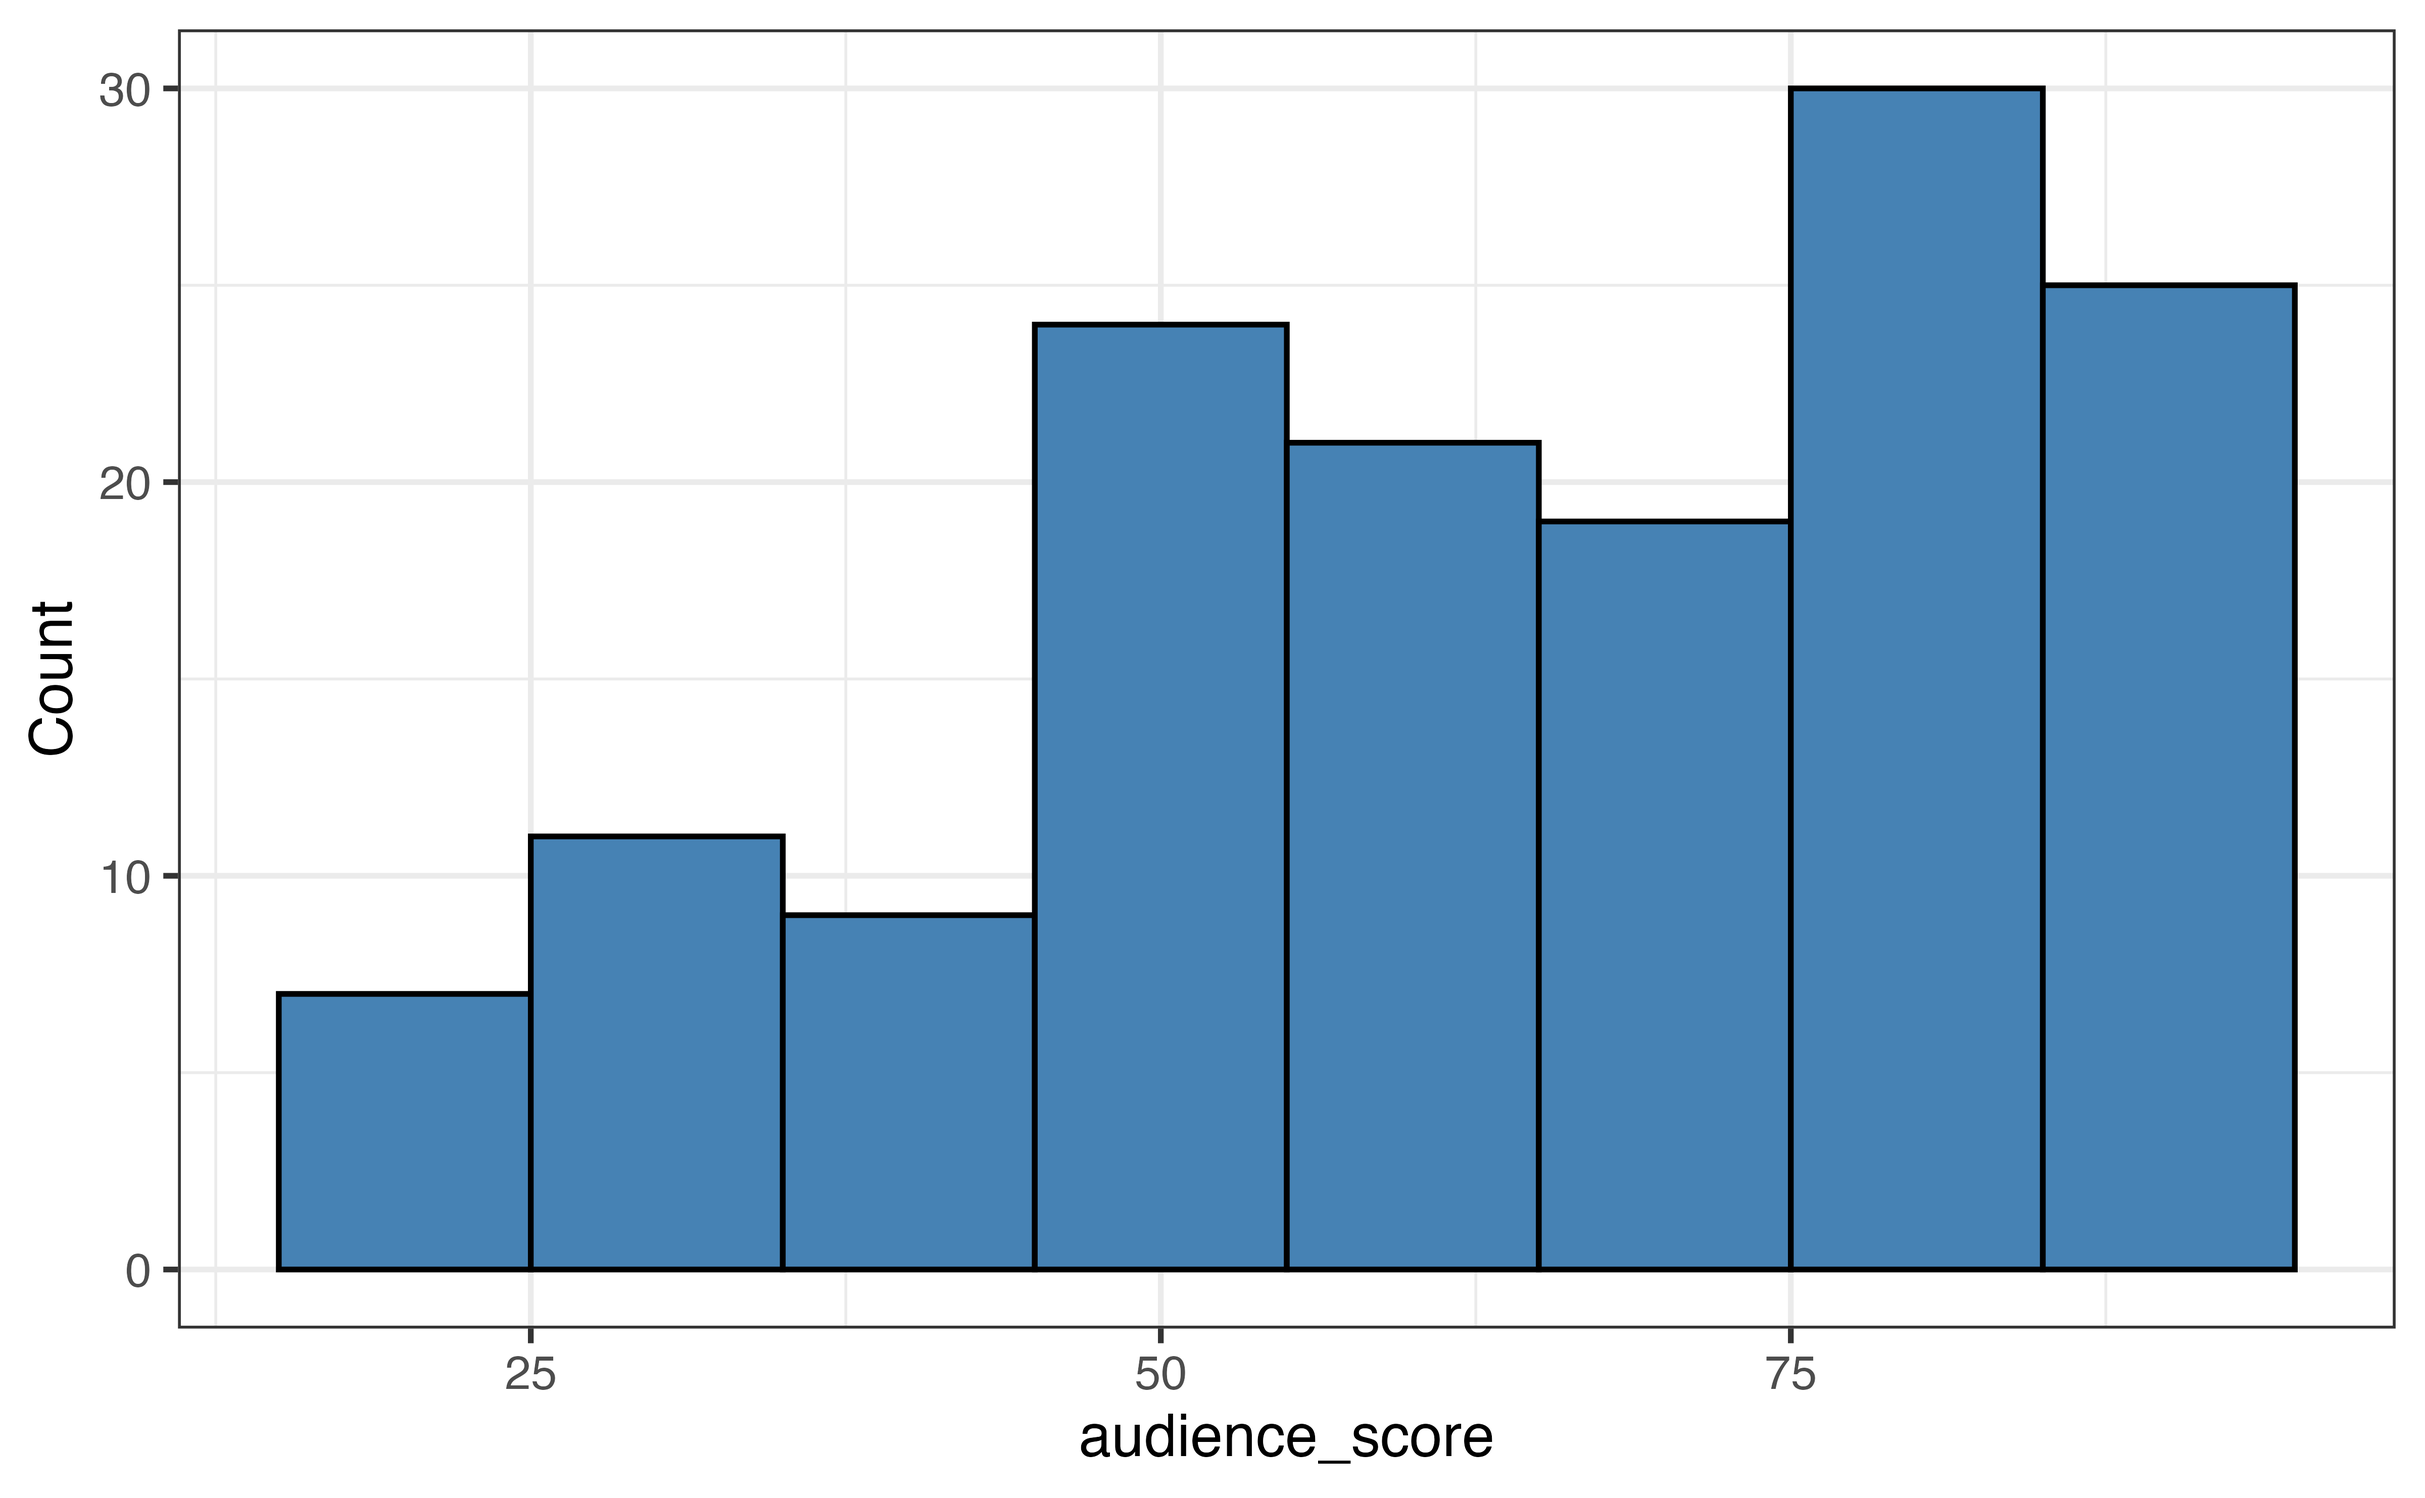
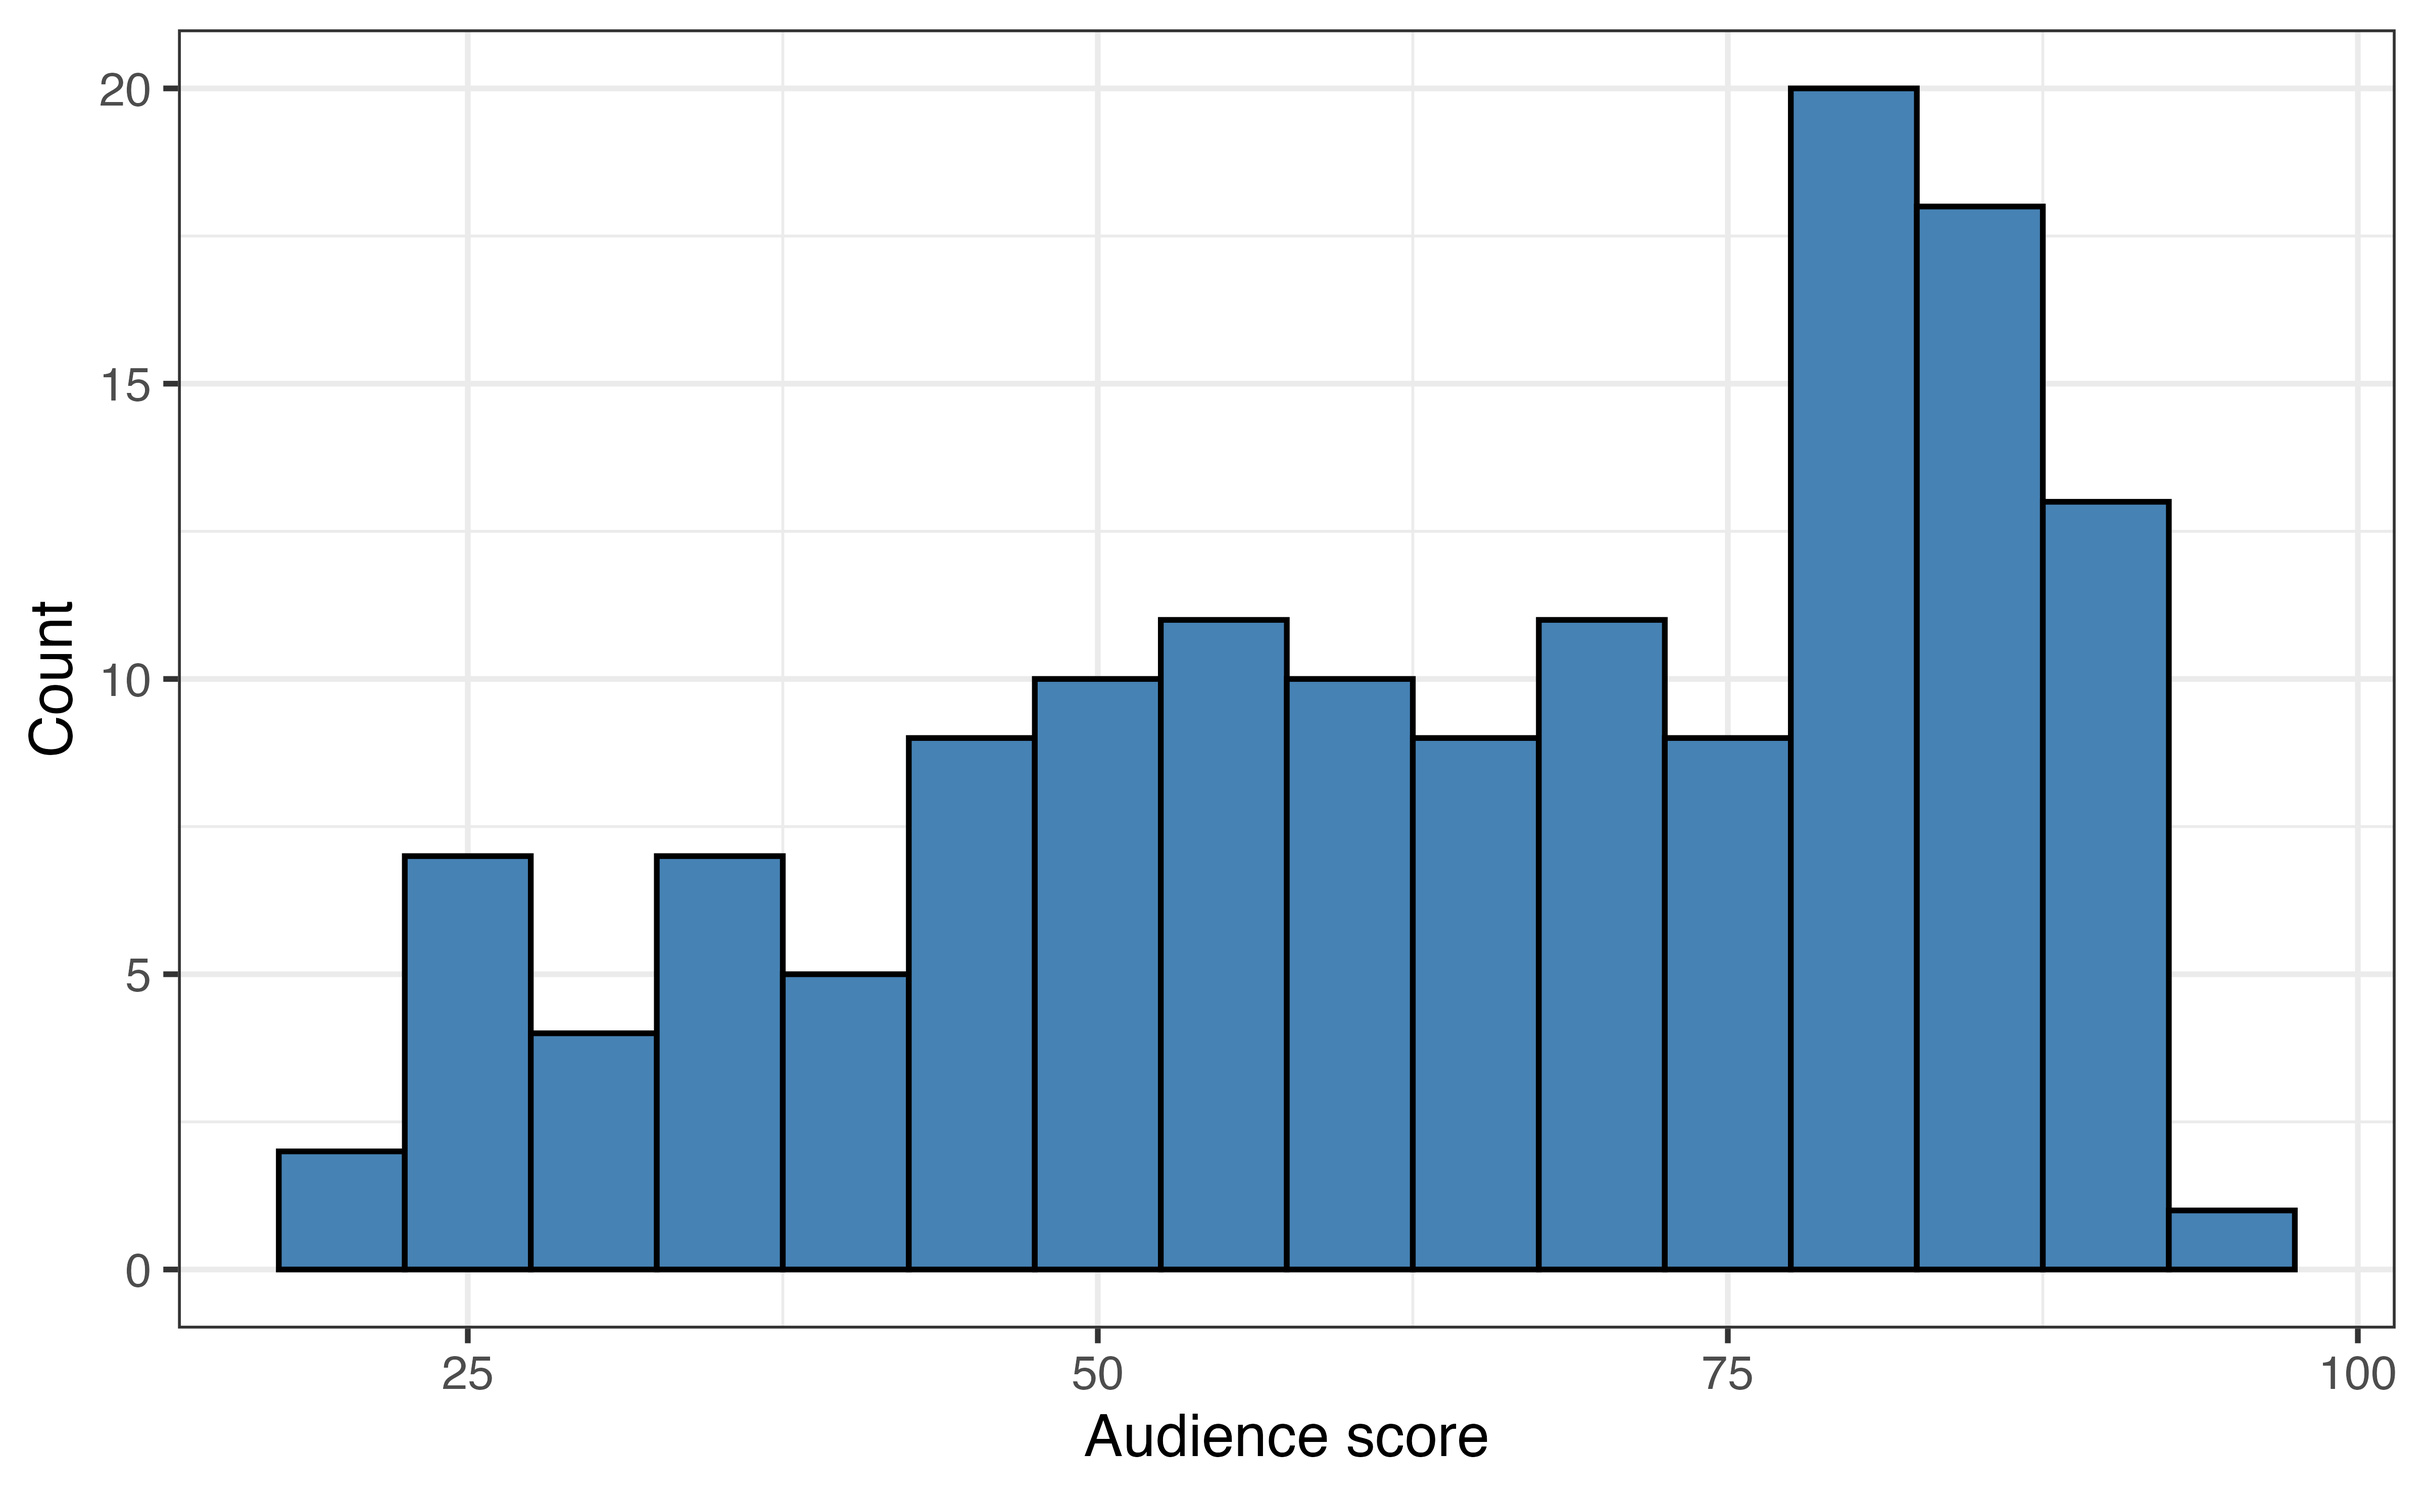
Chapter 4 captions done!

diff --git a/docs/04-slr.html b/docs/04-slr.html
@@ -474,16 +474,16 @@ window.Quarto = {
 <div class="cell-output-display">
 <div id="fig-movies-univariate-2" class="quarto-float quarto-figure quarto-figure-center anchored">
 <figure class="quarto-float quarto-subfloat-fig figure"><div aria-describedby="fig-movies-univariate-2-caption-0ceaefa1-69ba-4598-a22c-09a6ac19f8ca">
-<a href="04-slr_files/figure-html/fig-movies-univariate-2.png" class="lightbox" data-gallery="fig-movies-univariate" title="Figure&nbsp;4.1&nbsp;(b): Adience score"><img src="04-slr_files/figure-html/fig-movies-univariate-2.png" class="img-fluid figure-img" style="width:100.0%" data-ref-parent="fig-movies-univariate"></a>
+<a href="04-slr_files/figure-html/fig-movies-univariate-2.png" class="lightbox" data-gallery="fig-movies-univariate" title="Figure&nbsp;4.1&nbsp;(b): Audience score"><img src="04-slr_files/figure-html/fig-movies-univariate-2.png" class="img-fluid figure-img" style="width:100.0%" data-ref-parent="fig-movies-univariate"></a>
 </div>
 <figcaption class="quarto-float-caption-bottom quarto-subfloat-caption quarto-subfloat-fig" id="fig-movies-univariate-2-caption-0ceaefa1-69ba-4598-a22c-09a6ac19f8ca">
-(b) Adience score
+(b) Audience score
 </figcaption></figure>
 </div>
 </div>
 </div>
 <figcaption class="quarto-float-caption-bottom quarto-float-caption quarto-float-fig" id="fig-movies-univariate-caption-0ceaefa1-69ba-4598-a22c-09a6ac19f8ca">
-Figure&nbsp;4.1: Univariate distributions of <code>critics_score</code> and <code>audience_score</code>
+Figure&nbsp;4.1: Univariate distribution for the percentage of critics and the percentage of audience members who gave favorable reviews of the movie
 </figcaption></figure>
 </div>
 </div>
@@ -546,10 +546,10 @@ Table&nbsp;4.1: Summary statistics for <code>critics_score</code> and <code>audi
 <div class="cell-output-display">
 <div id="fig-movies-bivariate" class="quarto-float quarto-figure quarto-figure-center anchored">
 <figure class="quarto-float quarto-float-fig figure"><div aria-describedby="fig-movies-bivariate-caption-0ceaefa1-69ba-4598-a22c-09a6ac19f8ca">
-<a href="04-slr_files/figure-html/fig-movies-bivariate-1.png" class="lightbox" data-gallery="quarto-lightbox-gallery-3" title="Figure&nbsp;4.2: Scatterplot of critics_score and audience_score"><img src="04-slr_files/figure-html/fig-movies-bivariate-1.png" class="img-fluid figure-img" style="width:100.0%"></a>
+<a href="04-slr_files/figure-html/fig-movies-bivariate-1.png" class="lightbox" data-gallery="quarto-lightbox-gallery-3" title="Figure&nbsp;4.2: Scatterplot of the relationship between the percentage of critics and percentage of audience members who gave a favorable review for a movie"><img src="04-slr_files/figure-html/fig-movies-bivariate-1.png" class="img-fluid figure-img" style="width:100.0%"></a>
 </div>
 <figcaption class="quarto-float-caption-bottom quarto-float-caption quarto-float-fig" id="fig-movies-bivariate-caption-0ceaefa1-69ba-4598-a22c-09a6ac19f8ca">
-Figure&nbsp;4.2: Scatterplot of <code>critics_score</code> and <code>audience_score</code>
+Figure&nbsp;4.2: Scatterplot of the relationship between the percentage of critics and percentage of audience members who gave a favorable review for a movie
 </figcaption></figure>
 </div>
 </div>
@@ -643,10 +643,10 @@ Figure&nbsp;4.2: Scatterplot of <code>critics_score</code> and <code>audience_sc
 <div class="cell-output-display">
 <div id="fig-many-lines" class="quarto-float quarto-figure quarto-figure-center anchored">
 <figure class="quarto-float quarto-float-fig figure"><div aria-describedby="fig-many-lines-caption-0ceaefa1-69ba-4598-a22c-09a6ac19f8ca">
-<a href="04-slr_files/figure-html/fig-many-lines-1.png" class="lightbox" data-gallery="quarto-lightbox-gallery-4" title="Figure&nbsp;4.3: Potential regression lines for the relationship between critics_score and audience_score"><img src="04-slr_files/figure-html/fig-many-lines-1.png" class="img-fluid figure-img" style="width:100.0%"></a>
+<a href="04-slr_files/figure-html/fig-many-lines-1.png" class="lightbox" data-gallery="quarto-lightbox-gallery-4" title="Figure&nbsp;4.3: Possible regression lines for the relationship between the critics score and audience score"><img src="04-slr_files/figure-html/fig-many-lines-1.png" class="img-fluid figure-img" style="width:100.0%"></a>
 </div>
 <figcaption class="quarto-float-caption-bottom quarto-float-caption quarto-float-fig" id="fig-many-lines-caption-0ceaefa1-69ba-4598-a22c-09a6ac19f8ca">
-Figure&nbsp;4.3: Potential regression lines for the relationship between <code>critics_score</code> and <code>audience_score</code>
+Figure&nbsp;4.3: Possible regression lines for the relationship between the critics score and audience score
 </figcaption></figure>
 </div>
 </div>
@@ -656,10 +656,10 @@ Figure&nbsp;4.3: Potential regression lines for the relationship between <code>c
 <div class="cell-output-display">
 <div id="fig-scatterplot-resid" class="quarto-float quarto-figure quarto-figure-center anchored">
 <figure class="quarto-float quarto-float-fig figure"><div aria-describedby="fig-scatterplot-resid-caption-0ceaefa1-69ba-4598-a22c-09a6ac19f8ca">
-<a href="04-slr_files/figure-html/fig-scatterplot-resid-1.png" class="lightbox" data-gallery="quarto-lightbox-gallery-5" title="Figure&nbsp;4.4: Regression line of the relationship between critics_score and audience_score with residuals"><img src="04-slr_files/figure-html/fig-scatterplot-resid-1.png" class="img-fluid figure-img" style="width:100.0%"></a>
+<a href="04-slr_files/figure-html/fig-scatterplot-resid-1.png" class="lightbox" data-gallery="quarto-lightbox-gallery-5" title="Figure&nbsp;4.4: Regression line of the relationship between critics score and audience score with corresponding residuals"><img src="04-slr_files/figure-html/fig-scatterplot-resid-1.png" class="img-fluid figure-img" style="width:100.0%"></a>
 </div>
 <figcaption class="quarto-float-caption-bottom quarto-float-caption quarto-float-fig" id="fig-scatterplot-resid-caption-0ceaefa1-69ba-4598-a22c-09a6ac19f8ca">
-Figure&nbsp;4.4: Regression line of the relationship between <code>critics_score</code> and <code>audience_score</code> with residuals
+Figure&nbsp;4.4: Regression line of the relationship between critics score and audience score with corresponding residuals
 </figcaption></figure>
 </div>
 </div>
@@ -743,13 +743,13 @@ There is an area of statistics called <em>causal inference</em> about models tha
 \widehat{\text{audience\_scores}} &amp;= 32.316 + 0.519 \times 88 \\
 &amp;= \textbf{77.988} \\
 \end{aligned}\]</span></p>
-<p>From the snapshot of the Barbie Rotten Tomatoes page (<a href="#fig-barbie" class="quarto-xref">Figure&nbsp;<span>4.5</span></a>), we see the actual audience score is 83<a href="#fn8" class="footnote-ref" id="fnref8" role="doc-noteref"><sup>8</sup></a>. Therefore, the model under predicted the audience score by about 5 points (83 - 77.988). Perhaps this isn’t surprising given this film’s massive box office success! <!--# do i need a citation for this statement?--></p>
+<p>From the snapshot of the <em>Barbie</em> Rotten Tomatoes page (<a href="#fig-barbie" class="quarto-xref">Figure&nbsp;<span>4.5</span></a>), we see the actual audience score is 83<a href="#fn8" class="footnote-ref" id="fnref8" role="doc-noteref"><sup>8</sup></a>. Therefore, the model under predicted the audience score by about 5 points (83 - 77.988). Perhaps this isn’t surprising given this film’s massive box office success! <!--# do i need a citation for this statement?--></p>
 <div id="fig-barbie" class="quarto-float quarto-figure quarto-figure-center anchored" data-fig-align="center">
 <figure class="quarto-float quarto-float-fig figure"><div aria-describedby="fig-barbie-caption-0ceaefa1-69ba-4598-a22c-09a6ac19f8ca">
-<a href="images/04-barbie.png" class="lightbox" data-gallery="quarto-lightbox-gallery-6" title="Figure&nbsp;4.5: Source: https://www.rottentomatoes.com/m/barbie (accessed August 29, 2023)"><img src="images/04-barbie.png" class="img-fluid quarto-figure quarto-figure-center figure-img"></a>
+<a href="images/04-barbie.png" class="lightbox" data-gallery="quarto-lightbox-gallery-6" title="Figure&nbsp;4.5: Ratings for Barbie on Rotten Tomatoes, as of August 29, 2023. (https://www.rottentomatoes.com/m/barbie)"><img src="images/04-barbie.png" class="img-fluid quarto-figure quarto-figure-center figure-img"></a>
 </div>
 <figcaption class="quarto-float-caption-bottom quarto-float-caption quarto-float-fig" id="fig-barbie-caption-0ceaefa1-69ba-4598-a22c-09a6ac19f8ca">
-Figure&nbsp;4.5: Source: https://www.rottentomatoes.com/m/barbie (accessed August 29, 2023)
+Figure&nbsp;4.5: Ratings for <em>Barbie</em> on Rotten Tomatoes, as of August 29, 2023. (https://www.rottentomatoes.com/m/barbie)
 </figcaption></figure>
 </div>
 <div class="yourturn">
